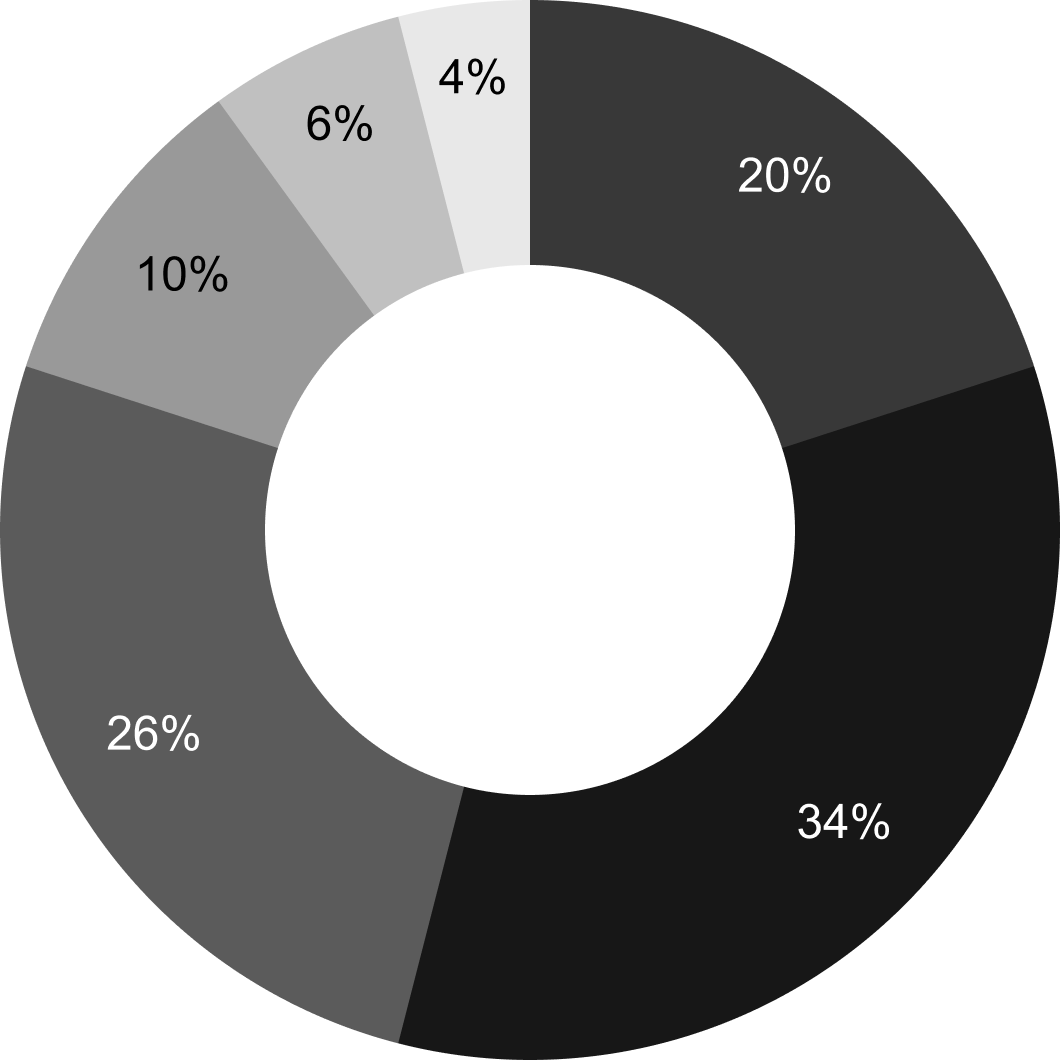
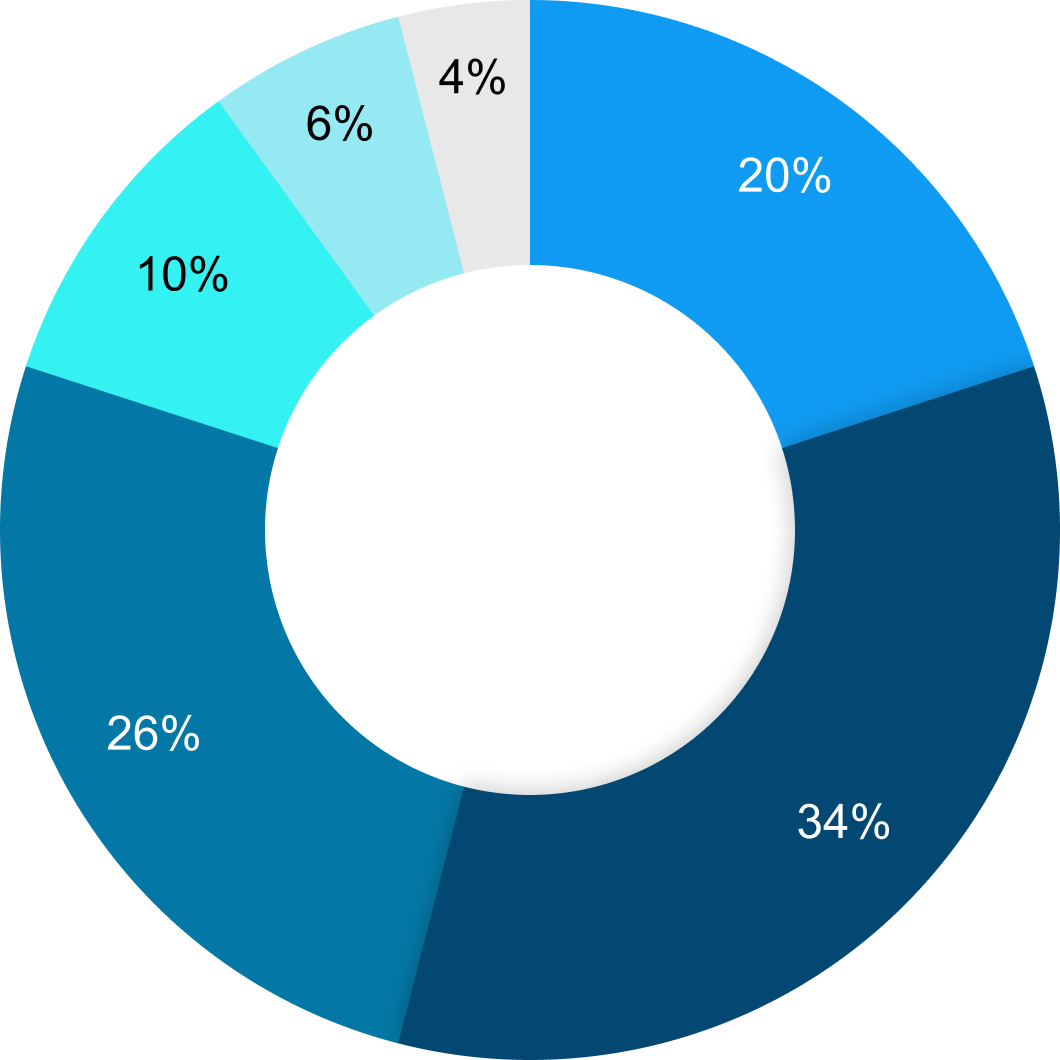
create links

diff --git a/src/pages/caviarCoin/CaviarCoin.tsx b/src/pages/caviarCoin/CaviarCoin.tsx
@@ -1,4 +1,4 @@
-import React from "react";
+import React, { useEffect, useState } from "react";
 import styles from "./caviarCoin.styles.module.scss";
 import { Title, GrayBlock, Button } from "../../components";
 import { useTranslation } from "react-i18next";
@@ -9,28 +9,37 @@ import coinMp4 from "../../assets/video/mp4/coin_833.mp4";
 import coinWeb from "../../assets/video/web/coin_833.webm";
 
 export const CaviarCoin: React.FC = () => {
-  const { t } = useTranslation();
+  const { t, i18n } = useTranslation();
+  const [linkTelegram, setLinkTelegram] = useState("");
+
+  useEffect(() => {
+    if (i18n.language === "ru") {
+      setLinkTelegram("https://t.me/tonfrogs");
+    } else {
+      setLinkTelegram("https://t.me/frogs");
+    }
+  }, [i18n.language]);
 
   const chartInformationItem = [
     {
       text: "СеХ/DeХ listing",
-      color: "#171717",
+      color: "#024873",
     },
     {
       text: "Fairlaunch",
-      color: "#383838",
+      color: "#0378a6",
     },
     {
       text: "Staking NFT TON Frogs ",
-      color: "#5b5b5b",
+      color: "#0f9bf2",
     },
     {
       text: t("team"),
-      color: "#999",
+      color: "#94e9f2",
     },
     {
       text: t("marketing"),
-      color: "#c0c0c0",
+      color: "#35f2f2",
     },
     {
       text: t("tonFrogsFoundation"),
@@ -99,19 +108,19 @@ export const CaviarCoin: React.FC = () => {
             <div className={styles.buttons_block}>
               <Button
                 className={styles.button_form}
-                onClick={() => {}}
+                onClick={() => window.open("https://dedust.io/", "_blank")}
                 text="dedust.io"
               />
               <Button
                 className={styles.button_form}
-                onClick={() => {}}
+                onClick={() => window.open("https://ston.fi/", "_blank")}
                 text="ston.fi"
               />
             </div>
             <Button
               iconLeft={telegram}
               className={styles.button_telegram}
-              onClick={() => {}}
+              onClick={() => window.open(linkTelegram, "_blank")}
               text="Telegram"
             />
           </div>

diff --git a/src/components/footer/Footer.tsx b/src/components/footer/Footer.tsx
@@ -1,4 +1,4 @@
-import React from "react";
+import React, { useEffect, useState } from "react";
 import styles from "./footer.module.scss";
 import { useTranslation } from "react-i18next";
 import stylesGlobal from "../../router/route.style.module.scss";
@@ -16,34 +16,6 @@ import logoFooterFrog from "../../assets/icons/logo-footer-frog.svg";
 import logoFooterTon from "../../assets/icons/logo-footer-ton.svg";
 import { Title } from "../title/Title";
 
-const logosItems = [
-  {
-    id: 1,
-    link: "https://t.me/tonfrogs_en",
-    icon: telegram,
-  },
-  {
-    id: 2,
-    link: "https://twitter.com/tonfrogs",
-    icon: twitter,
-  },
-  {
-    id: 3,
-    link: "https://www.instagram.com/tonfrogs/",
-    icon: instagram,
-  },
-  {
-    id: 4,
-    link: "https://www.tiktok.com/@tonfrogs",
-    icon: tikTok,
-  },
-  {
-    id: 5,
-    link: "https://www.youtube.com/channel/UCmt13qATIZDvjol88MGfBnw",
-    icon: youTube,
-  },
-];
-
 const handleClickLink = () => {
   window.scrollTo({
     top: 0,
@@ -52,7 +24,45 @@ const handleClickLink = () => {
 };
 
 export const Footer: React.FC = () => {
-  const { t } = useTranslation();
+  const { t, i18n } = useTranslation();
+  const [linkTelegram, setLinkTelegram] = useState("");
+
+  useEffect(() => {
+    if (i18n.language === "ru") {
+      setLinkTelegram("https://t.me/tonfrogs");
+    } else {
+      setLinkTelegram("https://t.me/frogs");
+    }
+  }, [i18n.language]);
+
+  const logosItems = [
+    {
+      id: 1,
+      link: linkTelegram,
+      icon: telegram,
+    },
+    {
+      id: 2,
+      link: "https://twitter.com/tonfrogs",
+      icon: twitter,
+    },
+    {
+      id: 3,
+      link: "https://www.instagram.com/tonfrogs/",
+      icon: instagram,
+    },
+    {
+      id: 4,
+      link: "https://www.tiktok.com/@tonfrogs",
+      icon: tikTok,
+    },
+    {
+      id: 5,
+      link: "https://www.youtube.com/channel/UCmt13qATIZDvjol88MGfBnw",
+      icon: youTube,
+    },
+  ];
+
   return (
     <div className={styles.footer_wrapper}>
       <div className={stylesGlobal.container}>

diff --git a/src/pages/fond/Fond.tsx b/src/pages/fond/Fond.tsx
@@ -33,7 +33,12 @@ export const Fond: React.FC = () => {
           className={styles.button}
           iconRight={ggIcon}
           text="GetGems"
-          onClick={() => {}}
+          onClick={() =>
+            window.open(
+              "https://getgems.io/collection/EQA8BrWceh49b2Og1fPmymjiZgh6JJ4jjz4EXK2jYEYYetOr",
+              "_blank"
+            )
+          }
         />
       </div>
       <div className={styles.description_fond_box}>

diff --git a/src/pages/caviarCoin/caviarCoin.styles.module.scss b/src/pages/caviarCoin/caviarCoin.styles.module.scss
@@ -285,6 +285,7 @@
           display: flex;
           justify-content: center;
           align-items: center;
+          cursor: auto;
         }
         .buttons_block {
           display: flex;

diff --git a/src/components/footer/footer.module.scss b/src/components/footer/footer.module.scss
@@ -70,7 +70,6 @@
         display: flex;
         align-items: center;
         gap: 15px;
-        cursor: pointer;
         justify-content: flex-start;
         grid-area: container_logo;
 

diff --git a/src/components/grayBlock/grayBlock.styles.module.scss b/src/components/grayBlock/grayBlock.styles.module.scss
@@ -8,7 +8,6 @@
   line-height: 178%;
   color: #dcdcdc;
   border-top: 1px solid #979797;
-  cursor: pointer;
 
   @media (max-width: 768px) {
     font-size: 14px;
